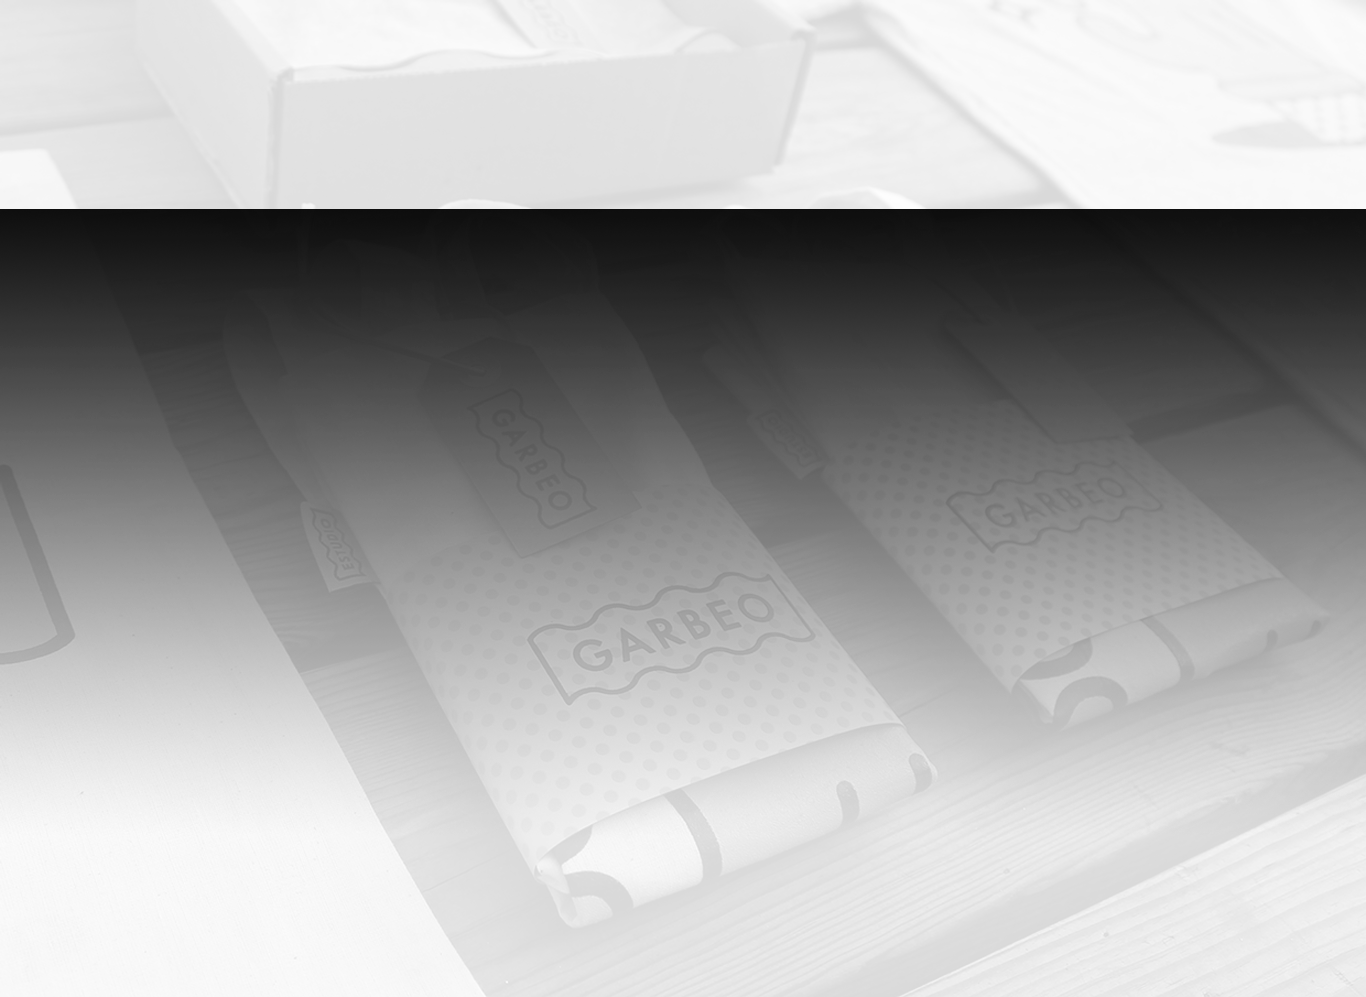
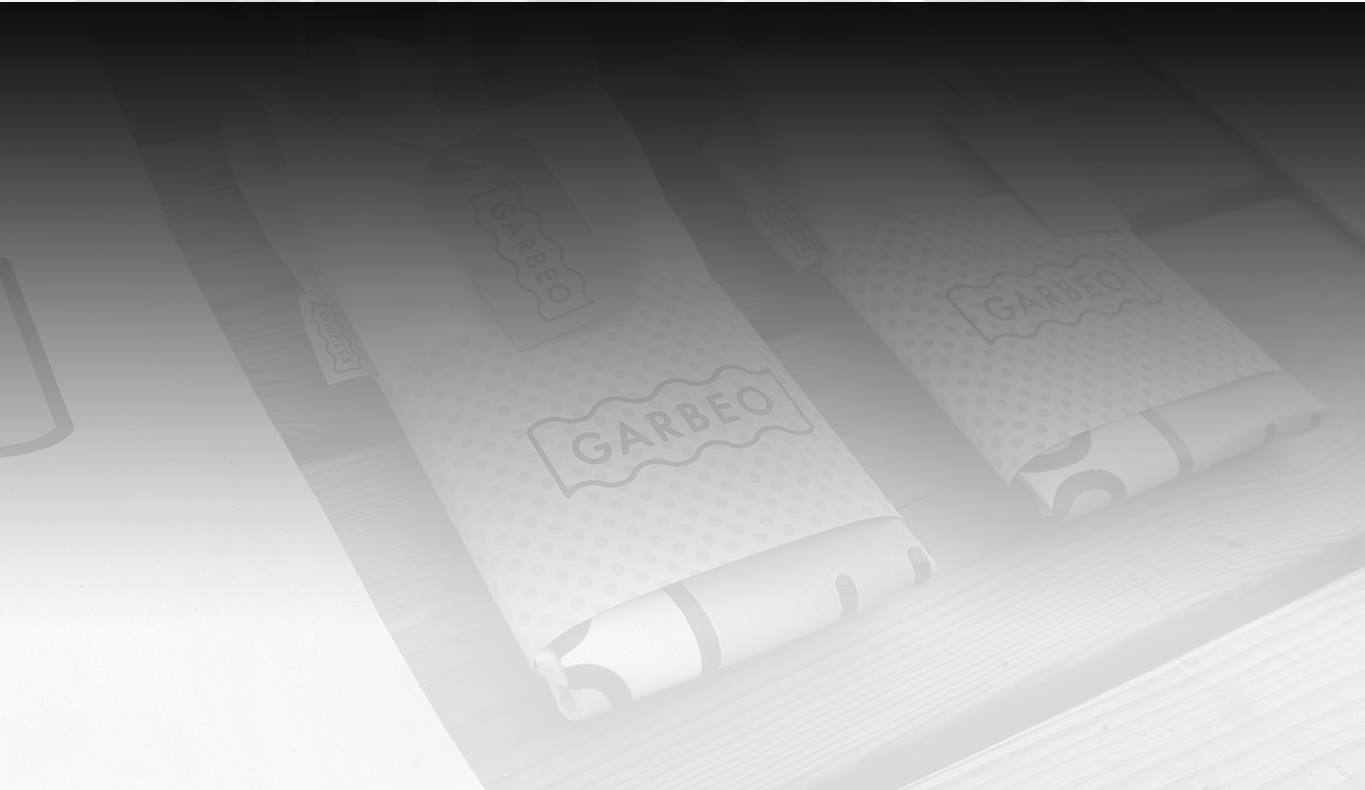
Fill up the section News

diff --git a/src/css/styles.css b/src/css/styles.css
@@ -21,6 +21,11 @@ body{
 .boldfont{
     font-weight: bold;
 }
+.greenlightfont{
+    color: #19bd9a;
+    font-weight: lighter;
+    font-style: italic;
+}
 /* header */
 .section-header{
     color: #ffffff;
@@ -968,8 +973,126 @@ body{
 /* testimonials */
 
 /* news */
+.section-news{
+    color: #ffffff;
+    background: url("../img/bg-news.png") no-repeat 50% 50%;
+    background-color: rgb(15, 15, 15);
+    background-blend-mode: soft-light;
+}
+    .section-inner-news{
+        padding-top: 80px;
+        padding-bottom: 100px;
+        padding-left: 100px;
+        padding-right: 100px;
+    }
+        .section-inner-news-wrapper{
+            display: flex;
+            flex-direction: row;
+            justify-content: space-between;
+            align-items: center;
+        }
+            .section-inner-news-wrapper-content{
+                display: flex;
+                flex-direction: column;
+            }
+                .section-inner-news-wrapper-content-header{
+                    max-width: 485px;
+                }
+                    .section-inner-news-wrapper-content-header-title{
+                        font-family: 'Source Sans Pro', sans-serif;
+                        font-size: 20px;
+                        font-weight: 200;
+                        letter-spacing: 0.1em;
+                        text-transform: uppercase;
+                    }
+                    .section-inner-news-wrapper-content-header-subtitle{
+                        color: #b2b3b3;
+                        font-family: 'Open Sans', sans-serif;
+                        font-size: 14px;
+                        margin-top: 40px;
+                    }
+                .section-inner-news-wrapper-content-body{
+                    margin-top: 100px;
+                    padding-left: 70px;
+                }
+                    .section-inner-news-wrapper-content-body-title{
+                        color: #e1e4e9;
+                        font-family: 'Open Sans', sans-serif;
+                        font-size: 20px;
+                    }
+                    .section-inner-news-wrapper-content-body-author{
+                        margin-top: 10px;
+                        color: #464646;
+                        font-family: 'Source Sans Pro', sans-serif;
+                        font-size: 14px;
+                        font-weight: 200;
+                        font-style: italic;
+                        letter-spacing: 0.1em;
+                        text-transform: uppercase;
+                    }
+                    .section-inner-news-wrapper-content-body-summury{
+                        margin-top: 15px;
+                        color: #464646;
+                        font-family: 'Source Sans Pro', sans-serif;
+                        font-size: 14px;
+                        font-weight: 200;
+                        letter-spacing: 0.1em;
+                    }
+                    .section-inner-news-wrapper-content-body-text{
+                        max-width: 600px;
+                        margin-top: 55px;
+                        color: #464646;
+                        font-family: 'Open Sans', sans-serif;
+                        font-size: 14px;
+                    }
+                    .section-inner-news-wrapper-content-body-more{
+                        margin-top: 75px;
+                        color: #464646;
+                        font-family: 'Open Sans', sans-serif;
+                        font-size: 16px;
+                    }
+                .section-inner-news-wrapper-slider{
+                    display: flex;
+                    flex-direction: column;
+                    height: 60px;
+                    justify-content: space-between;
+                    
+
+                }
+                    .section-inner-news-wrapper-slider-itemwhite{
+                        width: 10px;
+                        height: 10px;
+                        background: rgb(178, 179, 179);
+                        border-radius: 50%;
+                    }
+                    .section-inner-news-wrapper-slider-item{
+                        width: 8px;
+                        height: 8px;
+                        background-color: transparent;
+                        border: 1px solid rgb(178, 179, 179);
+                        border-radius: 50%;
+                    }
+                    
 
 /* news */
+
+    .section-inner-testimonials-wrapper-slider-item{
+        
+        width: 8px;
+        height: 8px;
+        background-color: transparent;
+        border: 1px solid rgb(25, 189, 154);
+        
+        border-radius: 50%;   
+    }
+
+    .section-inner-testimonials-wrapper-slider-itemgreen{
+        width: 10px;
+        height: 10px;
+        background: rgb(25, 189, 154);
+        border-radius: 50%;
+    }
+
 
 /* subscribe */
 

diff --git a/src/index.html b/src/index.html
@@ -406,8 +406,38 @@
 
     <!-- news-->
     <section class="section-outer section-news">
-        <div class="section-inner">
-            section-news
+        <div class="section-inner-news">
+            <div class="section-inner-news-wrapper">
+                <div class="section-inner-news-wrapper-content">
+                    <div class="section-inner-news-wrapper-content-header">
+                        <div class="section-inner-news-wrapper-content-header-title">LATEST NEWS</div>
+                        <div class="section-inner-news-wrapper-content-header-subtitle">At vero eos et 
+                            accusamus et iusto odio dignissimos ducimus qui blanditiis praesentium
+                        </div>
+                    </div>
+                    <div class="section-inner-news-wrapper-content-body">
+                        <div class="section-inner-news-wrapper-content-body-title">The trending Landing Pages</div>
+                        <div class="section-inner-news-wrapper-content-body-author">by 
+                            <span class="greenlightfont">Kabir Uddin</span>
+                        </div>
+                        <div class="section-inner-news-wrapper-content-body-summury">6950 Likes - 243 
+                            Comments - 703 shares
+                        </div>
+                        <div class="section-inner-news-wrapper-content-body-text">At vero eos et accusamus et iusto odio 
+                            dignissimos ducimus qui blanditiis praesentium voluptatum deleniti atque corrupti quos 
+                            dolores et quas molestias excepturi sint occaecati cupiditate non provident, similique sunt 
+                            in culpa qui officia deserunt mollitia animi, id est laborum et dolorum fuga. Et harum quidem 
+                            rerum facilis est et expedita distinctio...
+                        </div>
+                        <div class="section-inner-news-wrapper-content-body-more">+ Read More</div>
+                    </div>
+                </div>
+                <div class="section-inner-news-wrapper-slider">
+                    <div class="section-inner-news-wrapper-slider-itemwhite"></div>
+                    <div class="section-inner-news-wrapper-slider-item"></div>
+                    <div class="section-inner-news-wrapper-slider-item"></div>
+                </div>
+            </div>
         </div>
     </section>
     <!-- / news-->
